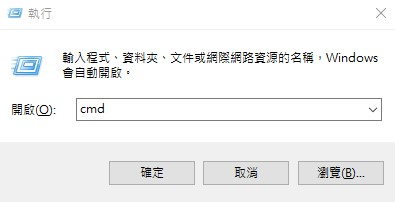
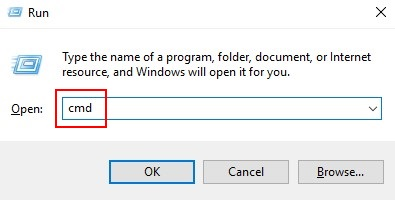
update queryMAC imgs

diff --git a/queryMAC.html b/queryMAC.html
@@ -18,11 +18,11 @@
 			<li id="WIN1" class="trans">按下快捷鍵 Win+R 開啟執行命令視窗，輸入[ cmd ]後按確定</li>
 			<img alt="Windows 命令列模式圖片1" src="assets/img/tutorial/QueryMAC/WIN01.jpg"/>
 			<li id="WIN2" class="trans">在跳出的視窗輸入指令[ ipconfig /all ]後按Enter鍵，其中實體位址(Physical Address)便是電腦MAC位址</li>
-			<img alt="Windows 命令列模式圖片2" src="assets/img/tutorial/QueryMAC/XP03.JPG"/>
+			<img alt="Windows 命令列模式圖片2" src="assets/img/tutorial/QueryMAC/WIN02.jpg"/>
 			<li id="WIN3" class="trans">在視窗標題列位置按下[ 滑鼠右鍵 ] 選 [ 編輯 &gt; 標記 ]</li>
-			<img alt="Windows 2K/XP命令列模式圖片4" src="assets/img/tutorial/QueryMAC/XP04.JPG"/>
+			<img alt="Windows 命令列模式圖片3" src="assets/img/tutorial/QueryMAC/WIN03.jpg"/>
 			<li id="WIN4" class="trans">請用[ 滑鼠左鍵 ] 選取要複製的範圍(會反白)，結束時請按[ 滑鼠右鍵 ](標題列會提示您狀態)</li>
-			<img alt="Windows 2K/XP命令列模式圖片5" src="assets/img/tutorial/QueryMAC/XP05.JPG"/>
+			<img alt="Windows 命令列模式圖片4" src="assets/img/tutorial/QueryMAC/WIN04.jpg"/>
 		</ul>
 		</li>
 		</ul>
